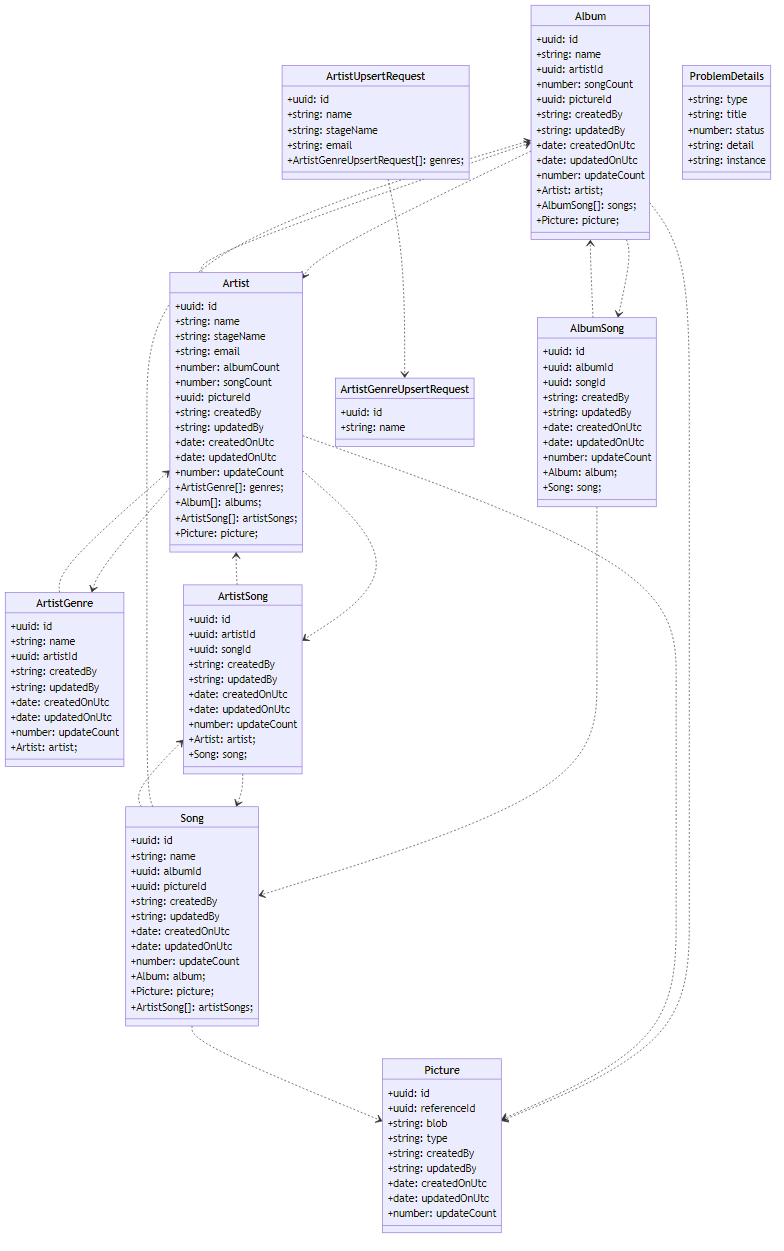
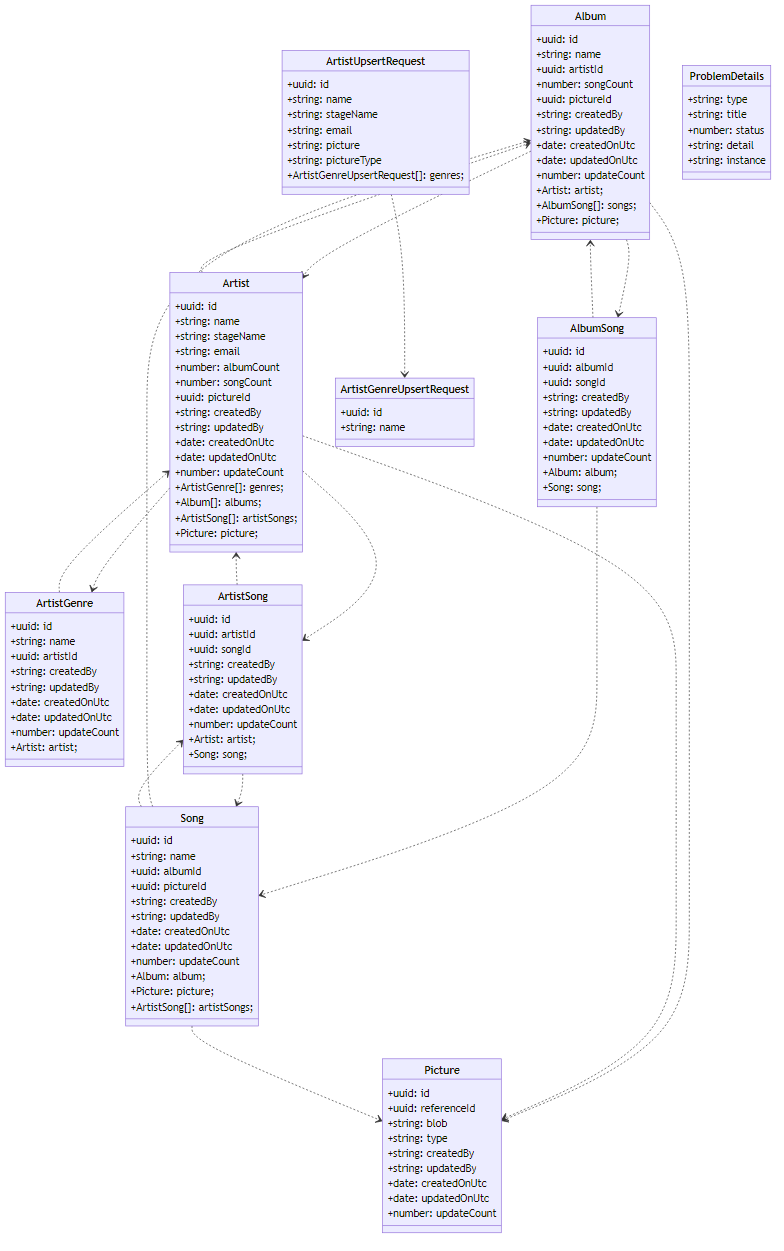
Upgrading to .net 7

Changed region(s): [[0.3673, 0.0312, 0.6122, 0.1559]]

diff --git a/src/nx/apps/itec5905/src/models/artists-webapi/artist-upsert-request.form-group-fac.ts b/src/nx/apps/itec5905/src/models/artists-webapi/artist-upsert-request.form-group-fac.ts
@@ -17,6 +17,8 @@ export function ArtistUpsertRequestFormGroupFac(): FormGroup<IArtistUpsertReques
     name: new FormControl<string>('', { validators: Validators.compose([Validators.required, Validators.minLength(2), Validators.maxLength(255)]), nonNullable: true }),
     stageName: new FormControl<string>('', { validators: Validators.compose([Validators.required, Validators.minLength(2), Validators.maxLength(255)]), nonNullable: true }),
     email: new FormControl<string>('', { validators: Validators.compose([Validators.required, Validators.email, Validators.minLength(2), Validators.maxLength(255)]), nonNullable: true }),
+    picture: new FormControl<string | null | undefined>(null, { validators: Validators.maxLength(1000000) } ),
+    pictureType: new FormControl<string | null | undefined>(null, { validators: Validators.maxLength(5) } ),
     genres: new FormArray<FormGroup<IArtistGenreUpsertRequestForm>>([]),
   });
 }

diff --git a/src/nx/apps/itec5905/src/models/artists-webapi/artist-upsert-request.test-obj-fac.ts b/src/nx/apps/itec5905/src/models/artists-webapi/artist-upsert-request.test-obj-fac.ts
@@ -13,7 +13,9 @@ export function createTestArtistUpsertRequest() {
       [ArtistUpsertRequestProperties.ID]: 'ID',
       [ArtistUpsertRequestProperties.NAME]: 'NAME',
       [ArtistUpsertRequestProperties.STAGE_NAME]: 'STAGE_NAME',
-      [ArtistUpsertRequestProperties.EMAIL]: 'artist-upsert-request@email.org', 
+      [ArtistUpsertRequestProperties.EMAIL]: 'artist-upsert-request@email.org',
+      [ArtistUpsertRequestProperties.PICTURE]: 'PICTURE',
+      [ArtistUpsertRequestProperties.PICTURE_TYPE]: 'PICTU', 
       [ArtistUpsertRequestProperties.GENRES]: [],
     };
 }

diff --git a/src/nx/apps/itec5905/src/models/artists-webapi/artist-upsert-request.form.ts b/src/nx/apps/itec5905/src/models/artists-webapi/artist-upsert-request.form.ts
@@ -14,5 +14,7 @@ export interface IArtistUpsertRequestForm {
     name: FormControl<string>;
     stageName: FormControl<string>;
     email: FormControl<string>;
+    picture: FormControl<string | null | undefined>;
+    pictureType: FormControl<string | null | undefined>;
     genres: FormArray<FormGroup<IArtistGenreUpsertRequestForm>>;
 }

diff --git a/src/nx/apps/itec5905/src/models/artists-webapi/artist-upsert-request.model.ts b/src/nx/apps/itec5905/src/models/artists-webapi/artist-upsert-request.model.ts
@@ -14,5 +14,7 @@ export interface IArtistUpsertRequest {
   name?: string;
   stageName?: string;
   email?: string;
+  picture?: string | null;
+  pictureType?: string | null;
   genres?: Partial<IArtistGenreUpsertRequest[]>;
 }

diff --git a/src/nx/apps/itec5905/src/models/artists-webapi/artist-upsert-request.properties.ts b/src/nx/apps/itec5905/src/models/artists-webapi/artist-upsert-request.properties.ts
@@ -11,5 +11,7 @@ export enum ArtistUpsertRequestProperties {
   NAME = 'name',
   STAGE_NAME = 'stageName',
   EMAIL = 'email',
+  PICTURE = 'picture',
+  PICTURE_TYPE = 'pictureType',
   GENRES = 'genres',
 }

diff --git a/docs/artists-webapi/class-diagram.html b/docs/artists-webapi/class-diagram.html
@@ -105,6 +105,8 @@ classDiagram
     +string: name
     +string: stageName
     +string: email
+    +string: picture
+    +string: pictureType
     +ArtistGenreUpsertRequest[]: genres;
   }
   class Picture{

diff --git a/src/dotnet/Artists/ITEC5905.Artists.WebApi/Controllers/V1/ArtistsController.cs b/src/dotnet/Artists/ITEC5905.Artists.WebApi/Controllers/V1/ArtistsController.cs
@@ -32,6 +32,8 @@ namespace ITEC5905.Artists.WebApi.Controllers.V1
     public async Task<ActionResult> Get([FromQuery] Guid id)
     {
       var dbArtist = await _databaseContext.Artists
+        .Include(t => t.Picture)
+        .Include(t => t.Genres)
         .AsSplitQuery()
         .AsNoTracking()
         .FirstOrDefaultAsync(t => t.Id == id)
@@ -47,6 +49,10 @@ namespace ITEC5905.Artists.WebApi.Controllers.V1
     public async Task<ActionResult> Post([FromBody] ArtistUpsertRequest request, [FromServices] IPublisher<Artist, CreatedEvent> publisher)
     {
       var value = SimpleMapper<ArtistUpsertRequest, Artist>.Instance.Convert(request);
+      value.Id = (value.Id == Guid.Empty) ? Guid.NewGuid() : value.Id;
+      var dbPicture = _databaseContext.Pictures.Add(new Picture { Blob = request.Picture, Type = request.PictureType, ReferenceId = value.Id });
+      value.Picture = dbPicture.Entity;
+
       var dbArtist = _databaseContext.Artists.Add(value);
       request.Genres?
         .Select(x => SimpleMapper<ArtistGenreUpsertRequest, ArtistGenre>.Instance.Convert(x))

diff --git a/src/dotnet/Artists/ITEC5905.Artists.Models/V1/ArtistUpsertRequest.cs b/src/dotnet/Artists/ITEC5905.Artists.Models/V1/ArtistUpsertRequest.cs
@@ -21,5 +21,10 @@ namespace ITEC5905.Artists.Models.V1
     public string Email { get; set; }
 
     public ICollection<ArtistGenreUpsertRequest>? Genres { get; set; }
+
+    [MaxLength(1_000_000)]
+    public byte[] Picture { get; set; }
+    [MaxLength(5)]
+    public string PictureType { get; set; }
   }
 }

diff --git a/docs/artists-webapi/class-diagram.md b/docs/artists-webapi/class-diagram.md
@@ -95,6 +95,8 @@ classDiagram
     +string: name
     +string: stageName
     +string: email
+    +string: picture
+    +string: pictureType
     +ArtistGenreUpsertRequest[]: genres;
   }
   class Picture{
